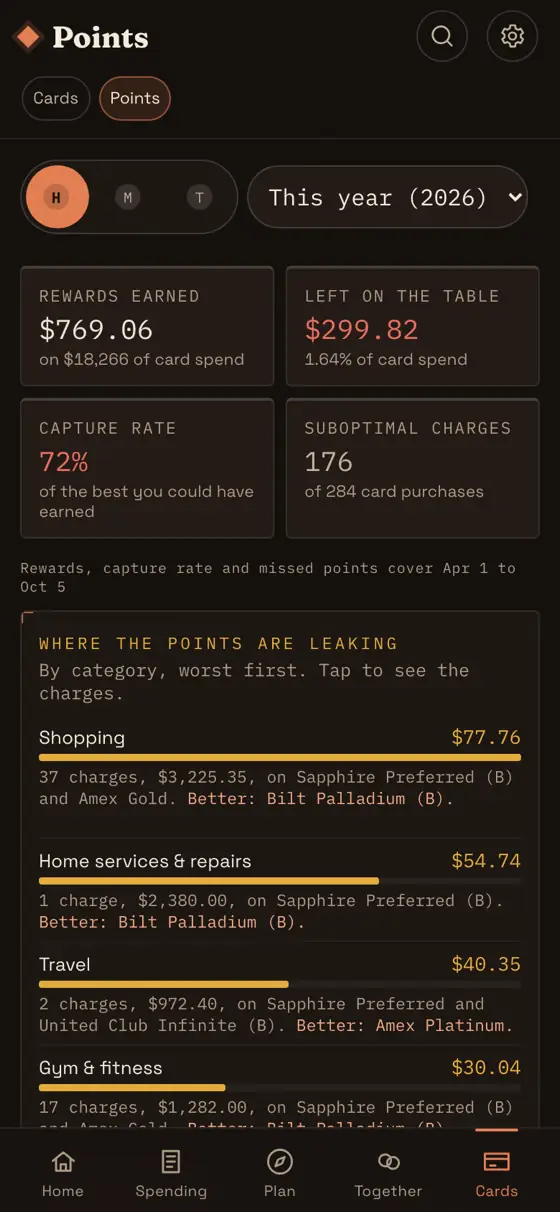
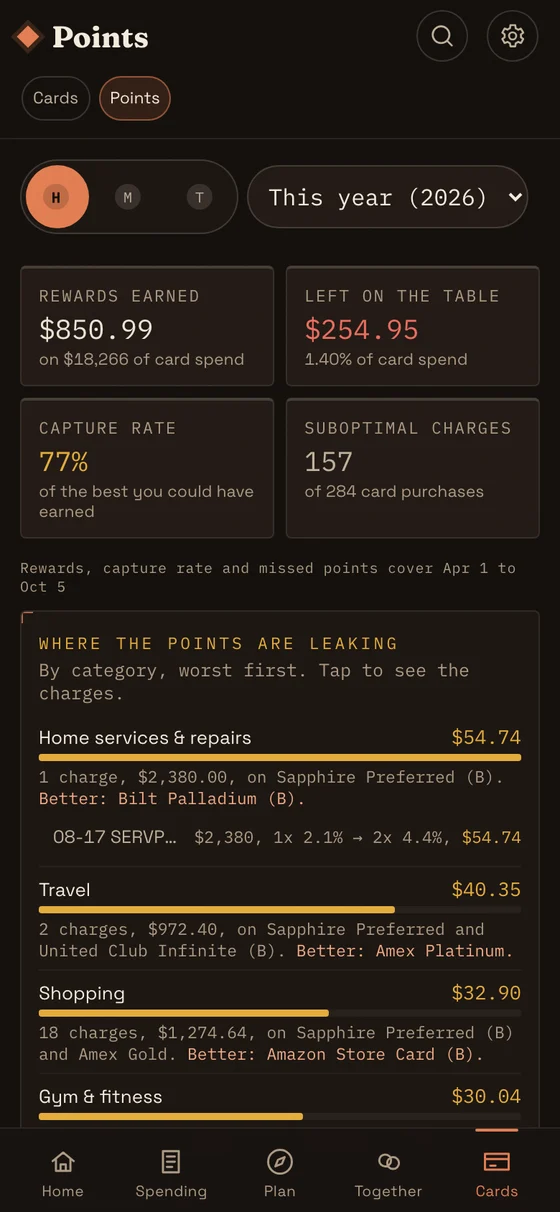
Figures: points, bills and the yearly total match the app today

diff --git a/index.html b/index.html
@@ -48,7 +48,7 @@
       <p class="sub">Pay a card from checking, split dinner on Venmo with a card, move money to savings: the same dollars show up on two or three statements. Add them up and the numbers are wrong, and nobody keeps a plan built on wrong numbers. Rich Life sorts it out for you, then keeps watch.</p>
       <ul class="stats">
         <li class="panel"><span class="n">$71,297.36</span><span class="l">of what left Maya and Theo&rsquo;s accounts was not spending: card payments, transfers between their own accounts, Venmo a card already paid for, and payments between the two of them. Rich Life counts each dollar once.</span><span class="src">Demo household, April to October 2026</span></li>
-        <li class="panel"><span class="n">Up to $3,673.51 a year</span><span class="l">found for them in card points, unused card credits, subscriptions that fund none of their priorities and one late fee.<sup><a class="fn" href="#fn2" id="fnref2" aria-label="Note 2">2</a></sup></span><span class="src">Demo household, April to October 2026</span></li>
+        <li class="panel"><span class="n">Up to about $3,600 a year</span><span class="l">found for them in card points, unused card credits, subscriptions that fund none of their priorities and one late fee.<sup><a class="fn" href="#fn2" id="fnref2" aria-label="Note 2">2</a></sup></span><span class="src">Demo household, April to October 2026</span></li>
         <li class="panel"><span class="n">6 days</span><span class="l">of warning before Maya&rsquo;s checking could go negative, with the fix named. Otherwise it stays quiet, apart from a short weekly recap.</span><span class="src">Forecast, October 5</span></li>
       </ul>
     </div>
@@ -70,12 +70,12 @@
 
       <div class="row flip">
         <div>
-          <p class="big">$299.82</p>
-          <p class="tagl">in points left on the table, 71.7% capture across 284 card purchases</p>
+          <p class="big">$254.95</p>
+          <p class="tagl">in points left on the table, 77% capture across 284 card purchases</p>
           <h3>Did each charge go on the right card?</h3>
           <p>Every purchase is scored on what its points are worth, using only the cards you held that day. A miss is a real miss.</p>
         </div>
-        <div class="shot"><img loading="lazy" width="560" height="1212" src="media/beat-4-tracker.webp" alt="The Points screen: $299.82 left on the table, a 72% capture rate, and 176 of 284 card purchases on a card that earned less."></div>
+        <div class="shot"><img loading="lazy" width="560" height="1212" src="media/beat-4-tracker.webp" alt="The Points screen: $254.95 left on the table, a 77% capture rate, and 157 of 284 card purchases on a card that earned less."></div>
       </div>
 
       <div class="row">
@@ -95,7 +95,7 @@
           <h3>What recurs, and what is it for?</h3>
           <p>Bills are found in the ledger, not typed in. A new amount is flagged, and a bill that has not shown up yet says so before you assume it was cancelled.</p>
         </div>
-        <div class="shot crop"><img loading="lazy" width="740" height="808" src="media/bills-calendar.webp" alt="October bills: $7,417 due this month, and subscriptions at $226 a month, 9 running, $2,711 a year."></div>
+        <div class="shot crop"><img loading="lazy" width="740" height="808" src="media/bills-calendar.webp" alt="October bills: $6,917 in 16 recurring charges, and subscriptions at $226 a month, 9 running, $2,711 a year."></div>
       </div>
 
       <div class="row">
@@ -173,7 +173,7 @@
     <div class="wrap">
       <ol>
         <li id="fn1">Dew, Britt and Huston, &ldquo;Examining the Relationship Between Financial Issues and Divorce,&rdquo; <i>Family Relations</i> 61(4) (2012): 615-628, <a href="https://scholarsarchive.byu.edu/facpub/4526" target="_blank" rel="noopener">scholarsarchive.byu.edu/facpub/4526</a>. The study compares types of disagreement. It does not rank the causes of divorce.</li>
-        <li id="fn2">&ldquo;Up to $3,673.51 a year&rdquo; adds four amounts, each annualized over its own period: points missed from April to September, times 2 ($562.55); monthly card credits unused from April to September ($929.34), times 2 ($1,858.68); subscriptions that fund none of the household's priorities ($1,223.28 a year); and one $29 late fee. $562.55 + $1,858.68 + $1,223.28 + $29 = $3,673.51. Annual fees are left out. It is an upper bound: it assumes every credit gets used and all 7 subscriptions are cancelled.</li>
+        <li id="fn2">&ldquo;Up to about $3,600 a year&rdquo; adds four amounts, each annualized over its own period: points missed from April 1 to October 5 ($255), scaled from those 188 days to a year (about $495); monthly card credits unused from April to September ($929), times 2 ($1,858); subscriptions that fund none of the household&rsquo;s priorities ($1,223 a year); and one $29 late fee. $495 + $1,858 + $1,223 + $29 = $3,605. Annual fees are left out. It is an upper bound: it assumes every credit gets used and all 7 subscriptions are cancelled.</li>
       </ol>
     </div>
   </aside>
